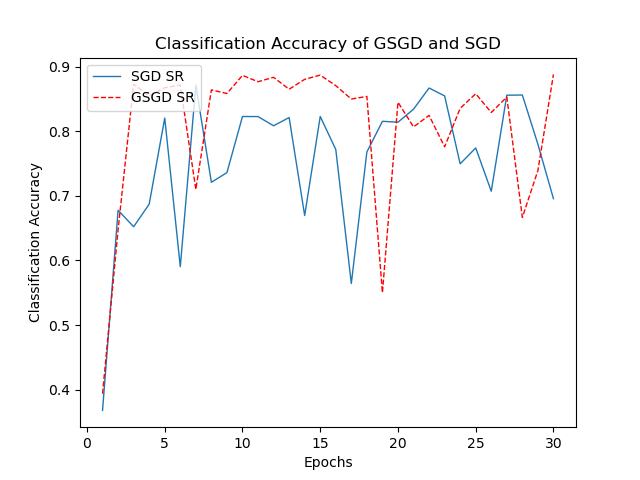
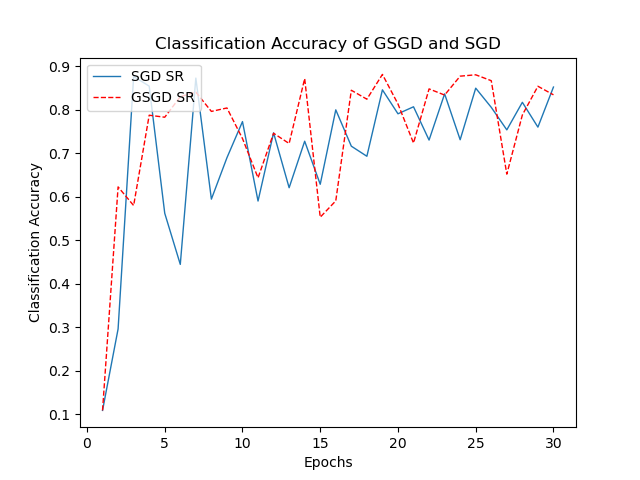
another good weights

diff --git a/Enhanced-ANN-GSGD/bayesian_parameter_tuning_guided.py b/Enhanced-ANN-GSGD/bayesian_parameter_tuning_guided.py
@@ -63,15 +63,12 @@ def train_evaluate(parameterization):
 def main_func():
     best_parameters, values, experiment, model = optimize(
         parameters=[
-            {"name": "lr", "type": "range", "bounds": [1e-20, 1.0], "log_scale": True},
-            {"name": "lambda", "type": "range", "bounds":[1e-20, 1.0]},
-            {"name": "momentum", "type": "range", "bounds":[1e-20, 1.0]},
-            {"name": "n_hiddenA", "type": "range", "bounds": [1, 500]},
-            # {"name": "n_hiddenB", "type": "range", "bounds": [1, 50]},
-            # {"name": "n_hiddenC", "type": "range", "bounds": [1, 50]},
-            # {"name": "n_hiddenD", "type": "range", "bounds": [1, 50]},
+            {"name": "lr", "type": "range", "bounds": [1e-7, 0.9], "log_scale": True},
+            {"name": "lambda", "type": "range", "bounds":[1e-7, 0.9]},
+            #{"name": "momentum", "type": "range", "bounds":[1e-20, 1.0]},
+            {"name": "n_hiddenA", "type": "range", "bounds": [300, 400]},
             {"name": "batch_size", "type": "range", "bounds": [1, 1000]},        
-            {"name": "dampening", "type": "range", "bounds": [0.0, 0.9]},        
+            #{"name": "dampening", "type": "range", "bounds": [0.0, 0.9]},        
             {"name": "epochs", "type": "range", "bounds": [1, 30]},        
         ],
     
@@ -88,8 +85,8 @@ def net_train(net, train_loader, parameters, dtype, device):
 
     l_rate = parameters.get("lr", 0.00085)
     lamda = parameters.get("lambda", 0.001)  #Lambda will be used for L2 regularizaion
-    momentum =  parameters.get("momentum", 0.9) 
-    dampening = parameters.get("dampening","0.9")
+    #momentum =  parameters.get("momentum", 0.9) 
+    # dampening = parameters.get("dampening","0.9")
     betas = (0.9, 0.999)
     beta = 0.9
     epsilon = 1e-8
@@ -97,7 +94,7 @@ def net_train(net, train_loader, parameters, dtype, device):
     net.to(dtype=dtype, device=device)
     criterion = nn.MSELoss()
 
-    optim_params = l_rate, lamda, betas, beta, epsilon, momentum, dampening
+    optim_params = l_rate, lamda, betas, beta, epsilon #, momentum, dampening
     optims = ['SGD', 'ADAM', 'ADADELTA', 'RMSPROP', 'ADAGRAD']
     
     optim_name = optims[0] #update this to perform hyperparametr tuning for different optimizers
@@ -132,9 +129,9 @@ def init_net(parameterization, d):
     return model # return untrained model
 
 def get_optimizer(network, name, cache):
-    l_rate, lamda, betas, beta, epsilon, momentum, dampening = cache 
+    l_rate, lamda, betas, beta, epsilon = cache 
     if(name == 'SGD'):
-        return torch.optim.SGD(network.parameters(), lr=l_rate, weight_decay= lamda, momentum=momentum, dampening=dampening)
+        return torch.optim.SGD(network.parameters(), lr=l_rate, weight_decay= lamda)
     elif(name == 'ADAM'):
         return torch.optim.Adam(network.parameters(), lr=l_rate, betas= betas,  weight_decay= lamda)
     elif(name == 'ADADELTA'):

diff --git a/Enhanced-ANN-GSGD/main.py b/Enhanced-ANN-GSGD/main.py
@@ -31,7 +31,7 @@ def GSGD_ANN(filePath):
     #model parameters
     l_rate =  0.02#0.0001#0.0002314354244#9.309681215145698e-15#3.0952770286463463e-07#0.0003314354244#0.00011852732093870824#0.00010926827346753853 #0.0002814354245#0.0002216960781458557#0.0002314354244 #0.000885 #0.061 #0.00025 #0.5
     n_hidden = 300#36#29#50#36#4
-    lamda =  1e-05#0.5964800918102662#0.06067045242012771#1e-05#0.6980844659683136 #1e-06#0.0001  #Lambda will be used for L2 regularizaion
+    lamda =  1e-06#0.5964800918102662#0.06067045242012771#1e-05#0.6980844659683136 #1e-06#0.0001  #Lambda will be used for L2 regularizaion
     betas = (0.9, 0.999)
     beta = 0.9
     epsilon = 1e-8
@@ -61,7 +61,7 @@ def GSGD_ANN(filePath):
     versetnum = 5 #number of batches used for verification
     epochs = 30#27#15
     revisitNum = 15
-    batch_size = 15#812#122#468#300#891#32
+    batch_size = 30#812#122#468#300#891#32
 
     #evaluate GSGD
     cache = is_guided_approach, rho, versetnum,epochs, revisitNum, N, network_GSGD, optimizer_GSGD, T, batch_size

diff --git a/Enhanced-ANN-GSGD/network.py b/Enhanced-ANN-GSGD/network.py
@@ -17,7 +17,7 @@ def train_network(network, data_x, data_y, loss_function, optimizer):
 def get_optimizer(network, name, cache):
     l_rate, lamda, betas, beta, epsilon = cache 
     if(name == 'SGD'):
-        return torch.optim.SGD(network.parameters(), lr=l_rate, weight_decay= lamda)
+        return torch.optim.SGD(network.parameters(), lr=l_rate, weight_decay= lamda, momentum=0.1)
         #return torch.optim.SGD(network.parameters(), lr=l_rate, weight_decay= lamda)
     elif(name == 'ADAM'):
         return torch.optim.Adam(network.parameters(), lr=l_rate, betas= betas,  weight_decay= lamda)
